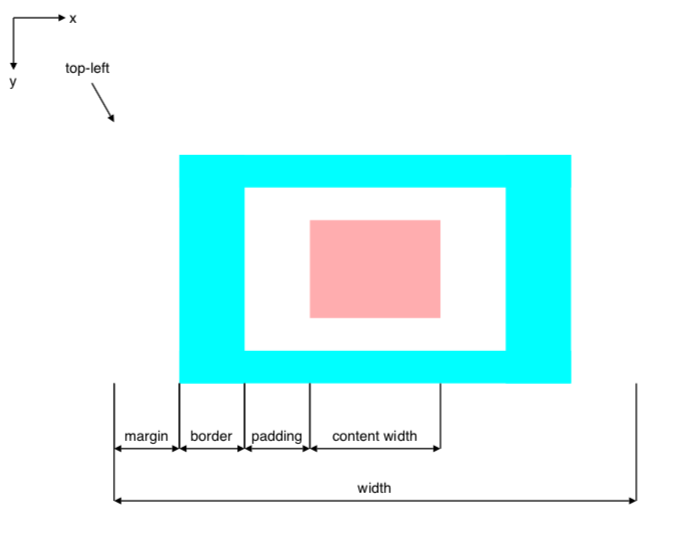
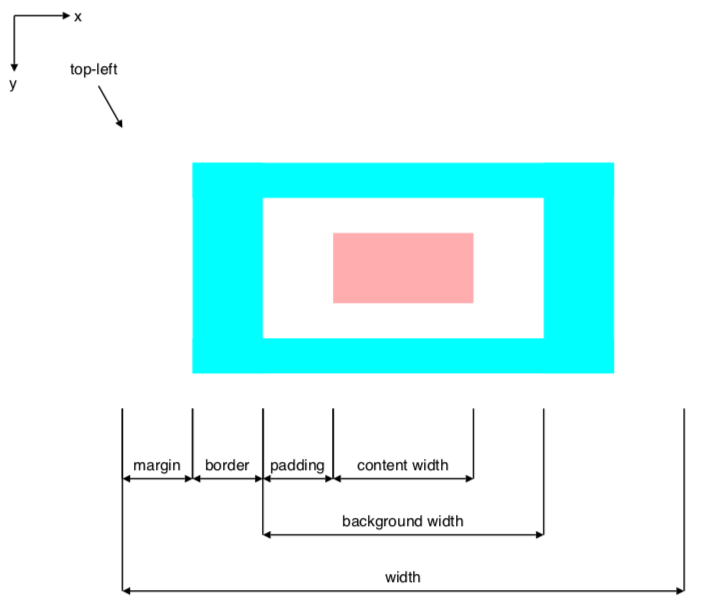
* Updated box model examples.

Changed region(s): [[0.15, 0.2667, 0.99, 0.9778], [0.09, 0.0889, 0.18, 0.237], [0.0, 0.0, 0.12, 0.1778]]

diff --git a/src/test/java/com/github/vkuzel/simplepdflayout/BoxModelDocumentTest.java b/src/test/java/com/github/vkuzel/simplepdflayout/BoxModelDocumentTest.java
@@ -24,6 +24,7 @@ public class BoxModelDocumentTest {
                         .setBorder(Border.of(BORDER_TOP_BOTTOM, BORDER_LEFT_RIGHT, BORDER_TOP_BOTTOM, BORDER_LEFT_RIGHT))
                         .setPadding(Padding.of(25, 50, 25, 50))
                         .addBox(box1 -> box1
+                                .setDimensionPercent(100, 100)
                                 .setBackgroundColor(PINK))
                 )
                 .addBox(this::createTopLeftPointer)
